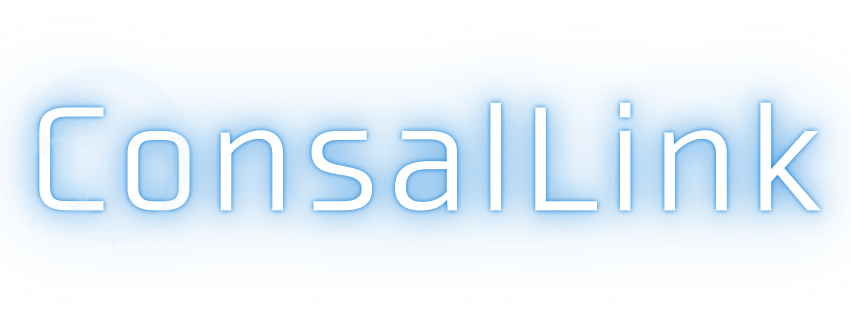
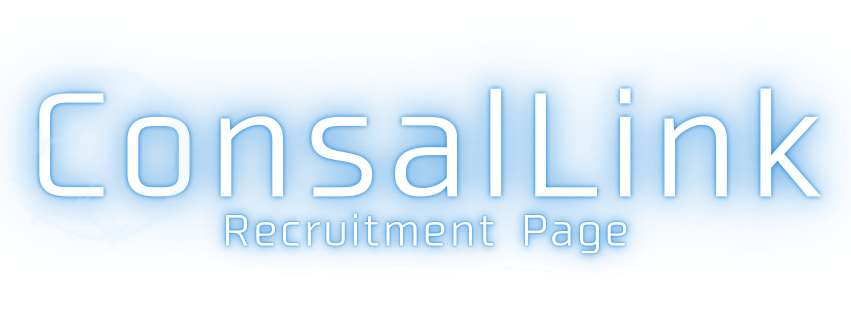
コンテンツ追加

diff --git a/hp/recruit/style.css b/hp/recruit/style.css
@@ -81,14 +81,13 @@ body.is-ready {
     margin-inline: auto;
     opacity: 0;
     transform: translateY(8px) scale(.98);
-    transition: opacity 3s ease, transform 3s ease;
-    /* ロゴ3秒フェードイン */
+    transition: opacity 8s ease, transform 8s ease;
     filter: drop-shadow(0 8px 26px rgba(0, 0, 0, .28));
 }
 
 .splash-logo.is-visible {
     opacity: 1;
-    transform: translateY(0) scale(1);
+    transform: translateY(0) scale(1.2);
 }
 
 /* スタイリッシュなリングスピナー（ゆっくりフェードイン） */
@@ -589,7 +588,7 @@ body.is-ready {
     color: #fff;
     font-family: 'NagurigakiCrayon', 'Yomogi', 'Noto Sans JP', sans-serif;
     font-weight: 400;
-    font-size: clamp(28px, 6.8vw, 56px);
+    font-size: clamp(28px, 8.8vw, 56px);
     line-height: 1.2;
     display: block;
     position: relative;
@@ -615,8 +614,9 @@ body.is-ready {
 }
 
 .handwrite-sub {
-    color: var(--subtext);
+    color: #2078e1;
     font-family: 'NagurigakiCrayon', 'Yomogi', 'Noto Sans JP', sans-serif;
+    font-size: clamp(20px, 5.2vw, 48px);
     display: block;
     position: relative;
     margin: 18px 0 28px;
@@ -2140,7 +2140,7 @@ footer {
     left: 0;
     bottom: 0;
     height: 3px;
-    width: 222px;
+    width: 100px;
     border-radius: 999px;
     background: linear-gradient(90deg, #74b4ff, #1e88ff);
     box-shadow: 0 2px 10px rgba(30, 136, 255, .35);

diff --git a/hp/recruit/index.html b/hp/recruit/index.html
@@ -100,7 +100,7 @@
 
             <div class="hero-inner">
                 <h1 class="handwrite">皆の為、自分を磨こう</h1>
-                <p class="lead handwrite-sub">仕事が好きと言えることは、それだけで大きな力になる</p>
+                <p class="lead handwrite-sub">仕事が好きと言えることは、<br/>それだけで大きな力になる</p>
 
                 <div class="cta-wrap cta-image">
                     <a class="cta-img-link" href="#midcareer" id="midBtn" aria-label="中途採用へ">
@@ -319,7 +319,7 @@
                     <!-- card3 -->
                     <div class="card reveal env-card catalog-card3">
                         <div class="env-card__body">
-                            <h3 class="env-card__title">役職者</h3>
+                            <h3 class="env-card__title">管理職・役職者</h3>
                             <p class="env-card__desc">課や部を率いるリーダーたちの経歴や想いをご紹介</p>
                             <span class="env-card__arrow" aria-hidden="true">
                                 <img src="./images/icon/next.png" alt="">
